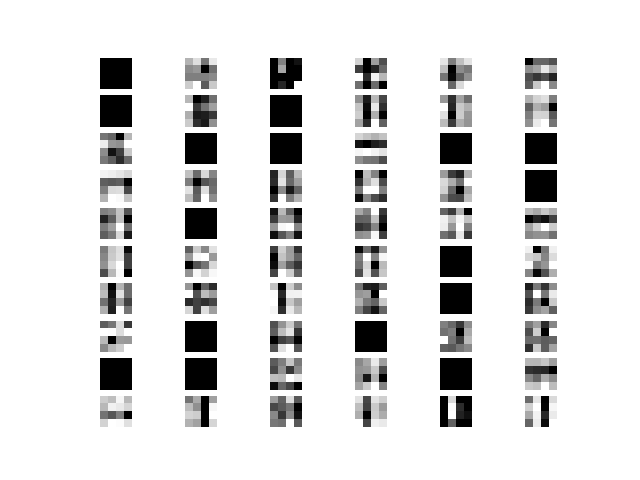
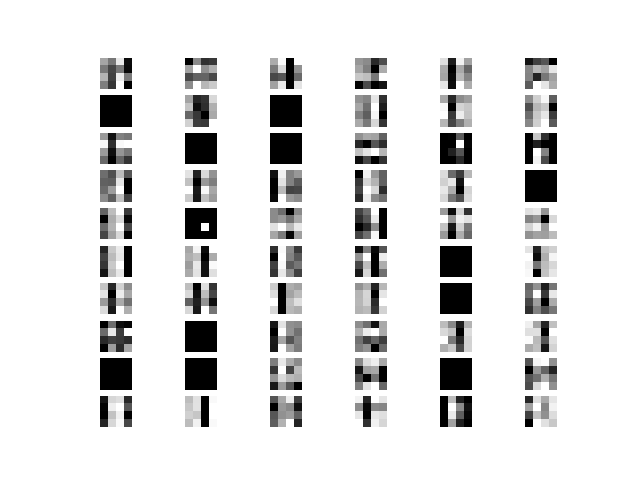
2 days out

diff --git a/Assignment 2/Part A/A2.py b/Assignment 2/Part A/A2.py
@@ -95,6 +95,7 @@ def main():
     max_test_acc = 0
     max_map1 = 0
     max_map2 = 0
+    test_acc = np.array([])
     for map1 in range(5,101,5):
         for map2 in range(5,101,5):
             print("Training with", map1, "feature maps at conv1 and ", map2,"feature maps at conv2")
@@ -115,11 +116,10 @@ def main():
 
             N = len(trainX)
             idx = np.arange(N)
+            
             with tf.Session() as sess:
                 sess.run(tf.global_variables_initializer())
 
-                test_acc = []
-                training_loss =[]
                 for e in range(epochs):
                     np.random.shuffle(idx)
                     trainX, trainY = trainX[idx], trainY[idx]
@@ -129,12 +129,27 @@ def main():
             
                 acc = accuracy.eval(feed_dict={x: testX, y_: testY})
                 print('Test Accuracy for', map1, 'and', map2, 'is', acc)
+                test_acc = np.append(test_acc,acc)
                 if (acc > max_test_acc):
                     max_test_acc = acc
                     max_map1 = map1
                     max_map2 = map2
                 print('Best test accuracy after search is', max_map1, 'and', max_map2, 'with accuracy', max_test_acc)   
-
+    from mpl_toolkits import mplot3d
+    x = range(5,101,5)
+    y = range(5,101,5)
+    X,Y = np.meshgrid(x,y)
+    test_acc = test_acc.reshape((20,20))
+    print(test_acc)
+    plt.figure()
+    ax = plt.axes(projection = '3d')
+    ax.plot_surface(X, Y, acc, rstride=1, cstride=1,
+                cmap='viridis', edgecolor='none')
+    ax.set_title('surface');
+    ax.set_xlabel('Convolutional layer 2')
+    ax.set_ylabel('Convolutional layer 1')
+    ax.set_zlabel('Test accuracy');
+    plt.savefig('A2-test-accuracy')
 
 
 

diff --git a/Assignment 2/Part A/A3c.py b/Assignment 2/Part A/A3c.py
@@ -14,10 +14,10 @@ NUM_CLASSES = 10
 IMG_SIZE = 32
 NUM_CHANNELS = 3
 learning_rate = 0.001
-epochs = 100
+epochs = 1000
 batch_size = 128
-FEATURE_MAP_1 = 95
-FEATURE_MAP_2 = 95
+FEATURE_MAP_1 = 90
+FEATURE_MAP_2 = 100
 
 
 seed = 10
@@ -100,7 +100,7 @@ def main():
 
     c1,p1,c2,p2,logits = cnn(x)
 
-    cross_entropy = tf.nn.softmax_cross_entropy_with_logits_v2(labels=y_, logits=logits)
+    cross_entropy = tf.nn.softmax_cross_entropy_with_logits_v2(labels=y_, logits=logits)*1000000
     loss = tf.reduce_mean(cross_entropy)
 
     train_step = tf.train.AdamOptimizer(learning_rate).minimize(loss)
@@ -122,7 +122,7 @@ def main():
 
             for start, end in zip(range(0, N, batch_size), range(batch_size, N, batch_size)):
                 train_step.run(feed_dict={x: trainX[start:end], y_: trainY[start:end]})
-            
+            print(loss.eval(feed_dict={x: trainX, y_: trainY}))
             training_loss.append(loss.eval(feed_dict={x: trainX, y_: trainY}))
             test_acc.append(accuracy.eval(feed_dict={x: testX, y_: testY}))
                 #_, loss_ = sess.run([train_step, loss], {x: trainX, y_: trainY})
@@ -142,7 +142,7 @@ def main():
         plt.ylabel('Training Loss')
         plt.savefig('./A3c-Training_loss.png')
  
-        plt.show()
+        #plt.show()
 
 
 

diff --git a/Assignment 2/Part A/A1.py b/Assignment 2/Part A/A1.py
@@ -14,7 +14,7 @@ NUM_CLASSES = 10
 IMG_SIZE = 32
 NUM_CHANNELS = 3
 learning_rate = 0.001
-epochs = 100
+epochs = 1000
 batch_size = 128
 
 
@@ -142,7 +142,7 @@ def main():
         plt.ylabel('Training Loss')
         plt.savefig('./A1-Training_loss.png')
  
-        plt.show()
+        #plt.show()
 
         h_conv1_, h_pool1_, h_conv2_, h_pool2_ = sess.run([c1, p1, c2, p2],{x: test1.reshape(1,3072)})
 
@@ -175,7 +175,7 @@ def main():
             plt.subplot(10, 6, i+1); plt.axis('off'); plt.imshow(h_pool2_[0,:,:,i])
         plt.savefig('./A1-test1-p2.png')
 
-        plt.show()
+        #plt.show()
 
         h_conv1_, h_pool1_, h_conv2_, h_pool2_ = sess.run([c1, p1, c2, p2],{x: test2.reshape(1,3072)})
 
@@ -208,7 +208,7 @@ def main():
             plt.subplot(10, 6, i+1); plt.axis('off'); plt.imshow(h_pool2_[0,:,:,i])
         plt.savefig('./A1-test2-p2.png')
 
-        plt.show()
+        #plt.show()
 
 
 if __name__ == '__main__':

diff --git a/Assignment 2/Part A/run_all.py b/Assignment 2/Part A/run_all.py
@@ -1,0 +1,28 @@
+import A1, A2, A3a, A3b, A3c, A3d
+
+def main():
+    print('\n***** Running Part B Question 1 *****')
+    A1.main()
+
+
+
+
+    print('\n***** Running Part B Question 3 *****')
+    A3a.main()
+
+    print('\n***** Running Part B Question 4 *****')
+    A3b.main()
+
+    print('\n***** Running Part B Question 5 *****')
+    A3c.main()
+
+    print('\n***** Running Part B Question 6 *****')
+    A3d.main()
+
+    print('\n***** Running Part B Question 2 *****')
+    A2.main()
+
+    print('\n\n***** ALL GRAPHS GENERATED ******')
+
+if __name__ == "__main__":
+    main()

diff --git a/Assignment 2/Part A/A3d.py b/Assignment 2/Part A/A3d.py
@@ -14,10 +14,10 @@ NUM_CLASSES = 10
 IMG_SIZE = 32
 NUM_CHANNELS = 3
 learning_rate = 0.001
-epochs = 100
+epochs = 1000
 batch_size = 128
-FEATURE_MAP_1 = 95
-FEATURE_MAP_2 = 95
+FEATURE_MAP_1 = 90
+FEATURE_MAP_2 = 100
 DROPOUT = 0.9
 
 
@@ -146,7 +146,7 @@ def main():
         plt.ylabel('Training Loss')
         plt.savefig('./A3d-Training_loss.png')
  
-        plt.show()
+        #plt.show()
 
 
 

diff --git a/Assignment 2/Part A/A3a.py b/Assignment 2/Part A/A3a.py
@@ -14,10 +14,10 @@ NUM_CLASSES = 10
 IMG_SIZE = 32
 NUM_CHANNELS = 3
 learning_rate = 0.001
-epochs = 100
+epochs = 1000
 batch_size = 128
-FEATURE_MAP_1 = 95
-FEATURE_MAP_2 = 95
+FEATURE_MAP_1 = 90
+FEATURE_MAP_2 = 100
 
 
 seed = 10
@@ -142,7 +142,7 @@ def main():
         plt.ylabel('Training Loss')
         plt.savefig('./A3a-Training_loss.png')
  
-        plt.show()
+        #plt.show()
 
 
 

diff --git a/Assignment 2/Part A/A3b.py b/Assignment 2/Part A/A3b.py
@@ -14,10 +14,10 @@ NUM_CLASSES = 10
 IMG_SIZE = 32
 NUM_CHANNELS = 3
 learning_rate = 0.001
-epochs = 100
+epochs = 1000
 batch_size = 128
-FEATURE_MAP_1 = 95
-FEATURE_MAP_2 = 95
+FEATURE_MAP_1 = 90
+FEATURE_MAP_2 = 100
 
 
 seed = 10
@@ -142,7 +142,7 @@ def main():
         plt.ylabel('Training Loss')
         plt.savefig('./A3b-Training_loss.png')
  
-        plt.show()
+        #plt.show()
 
 
 
